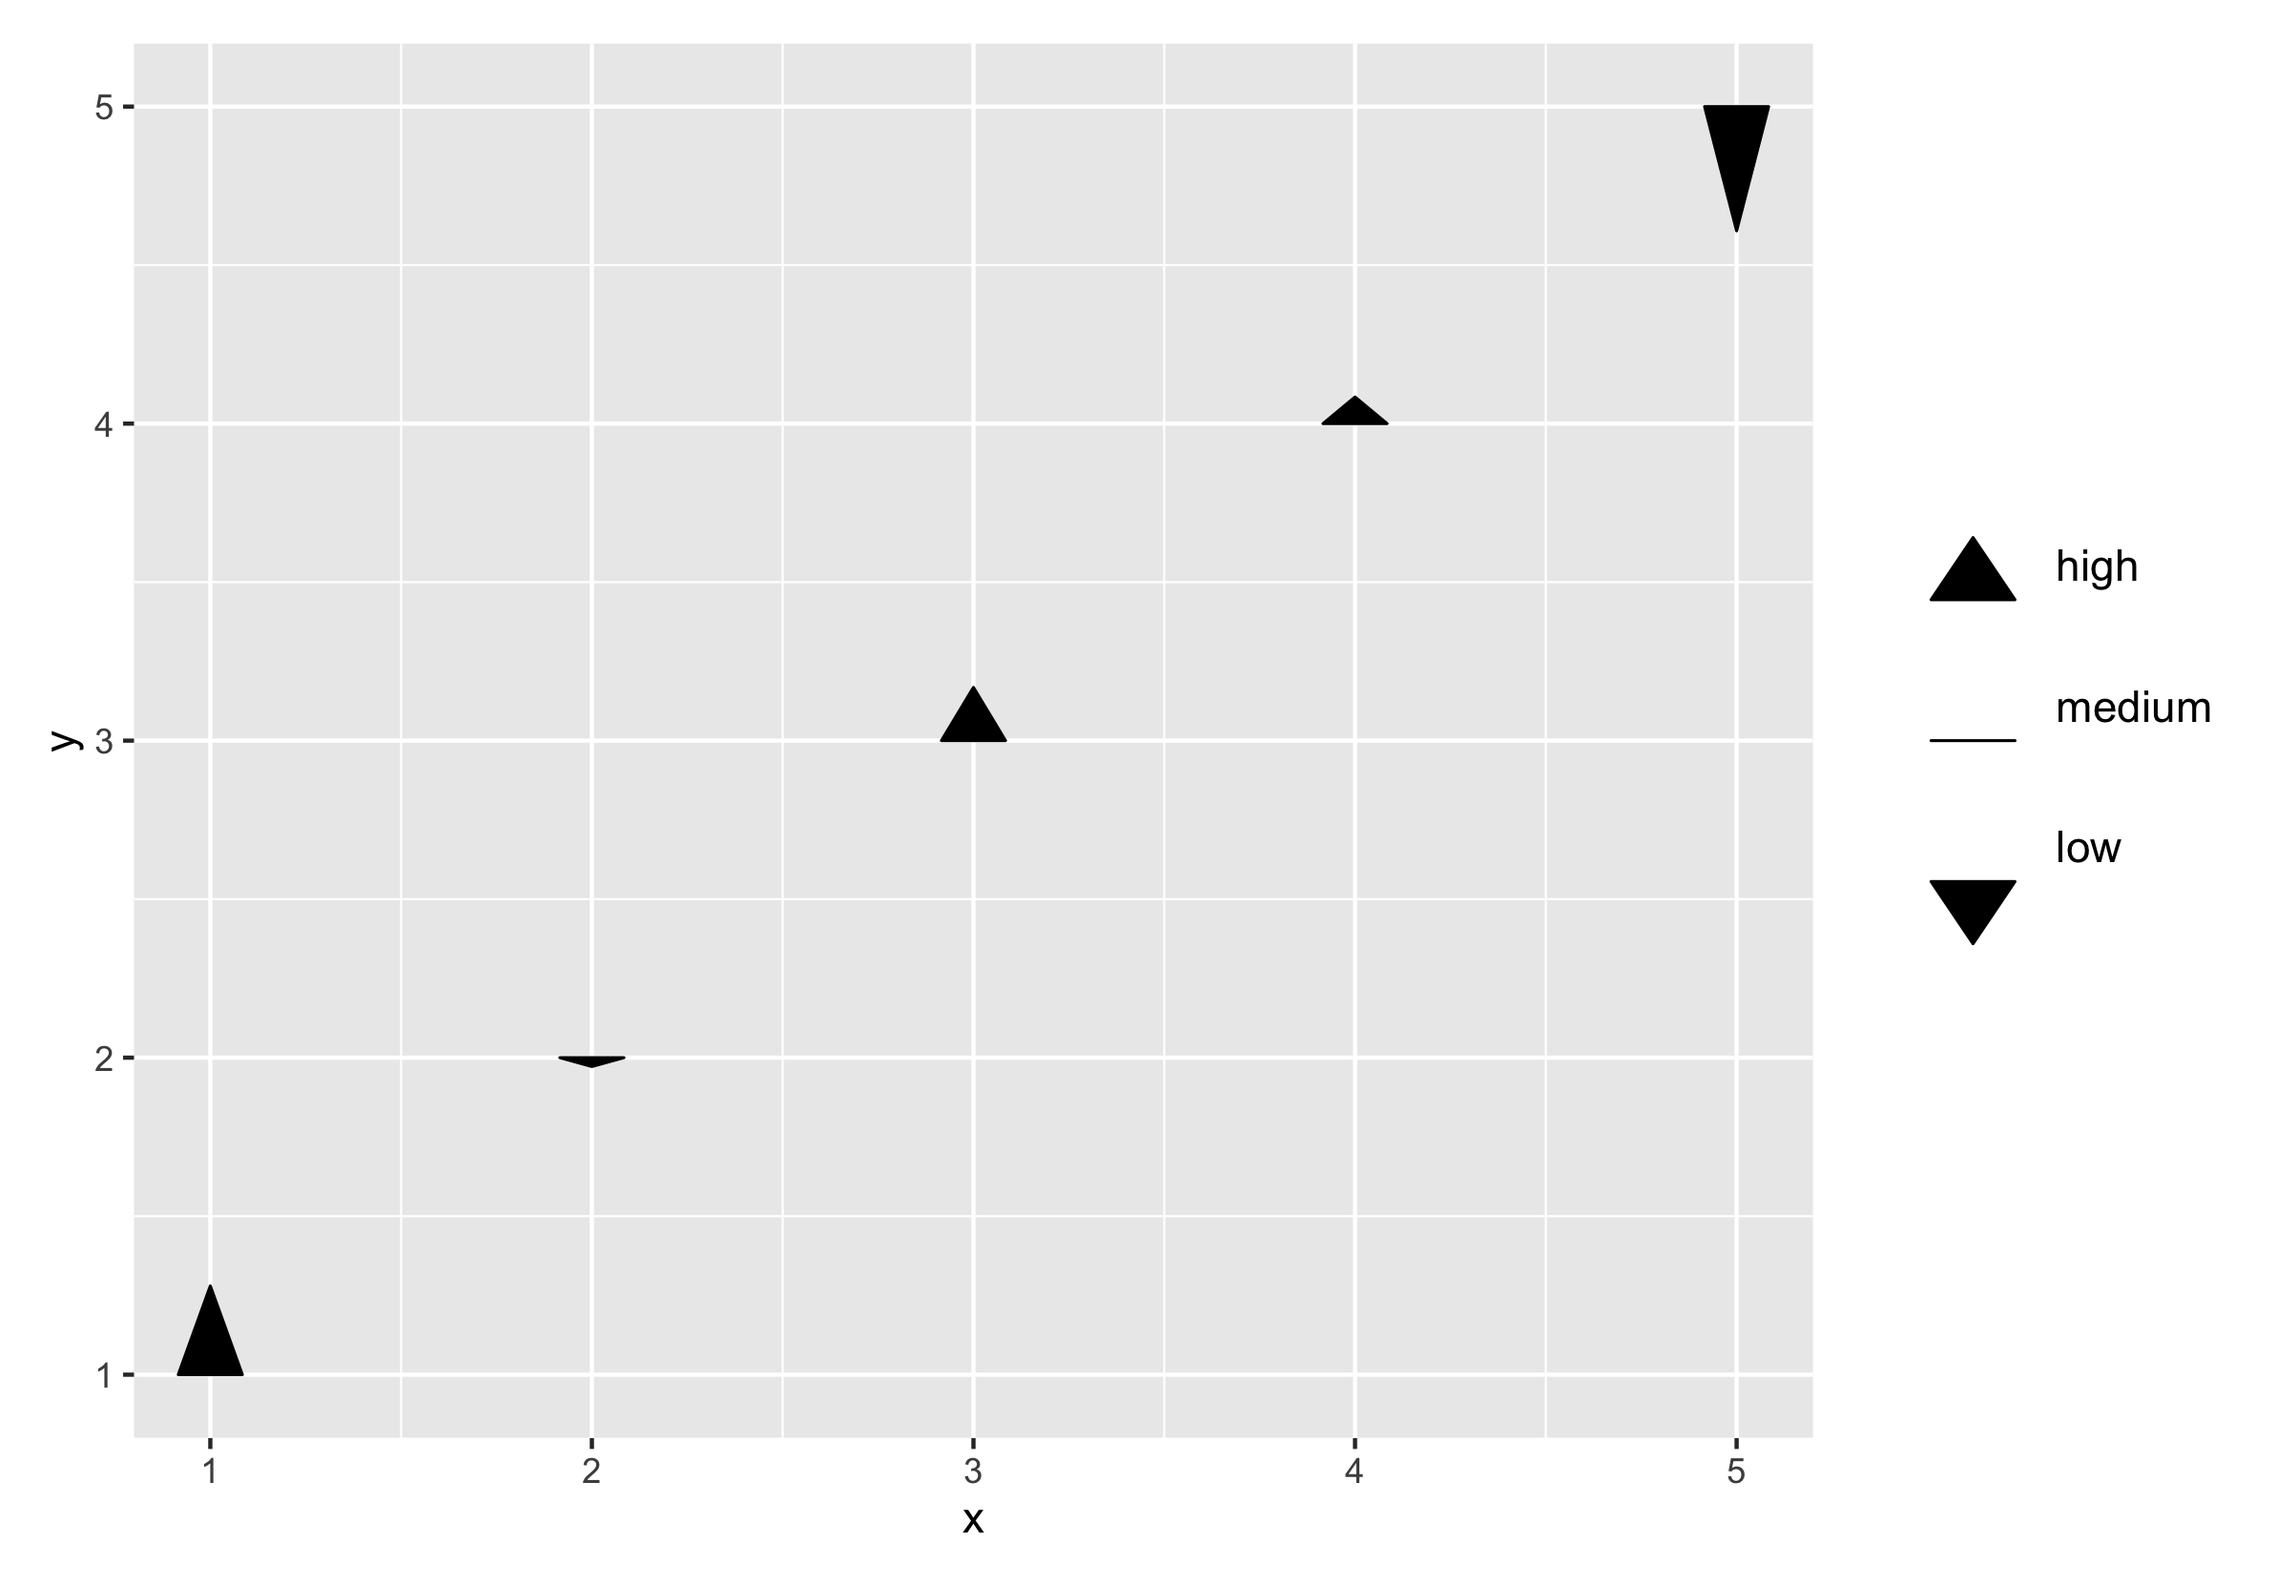
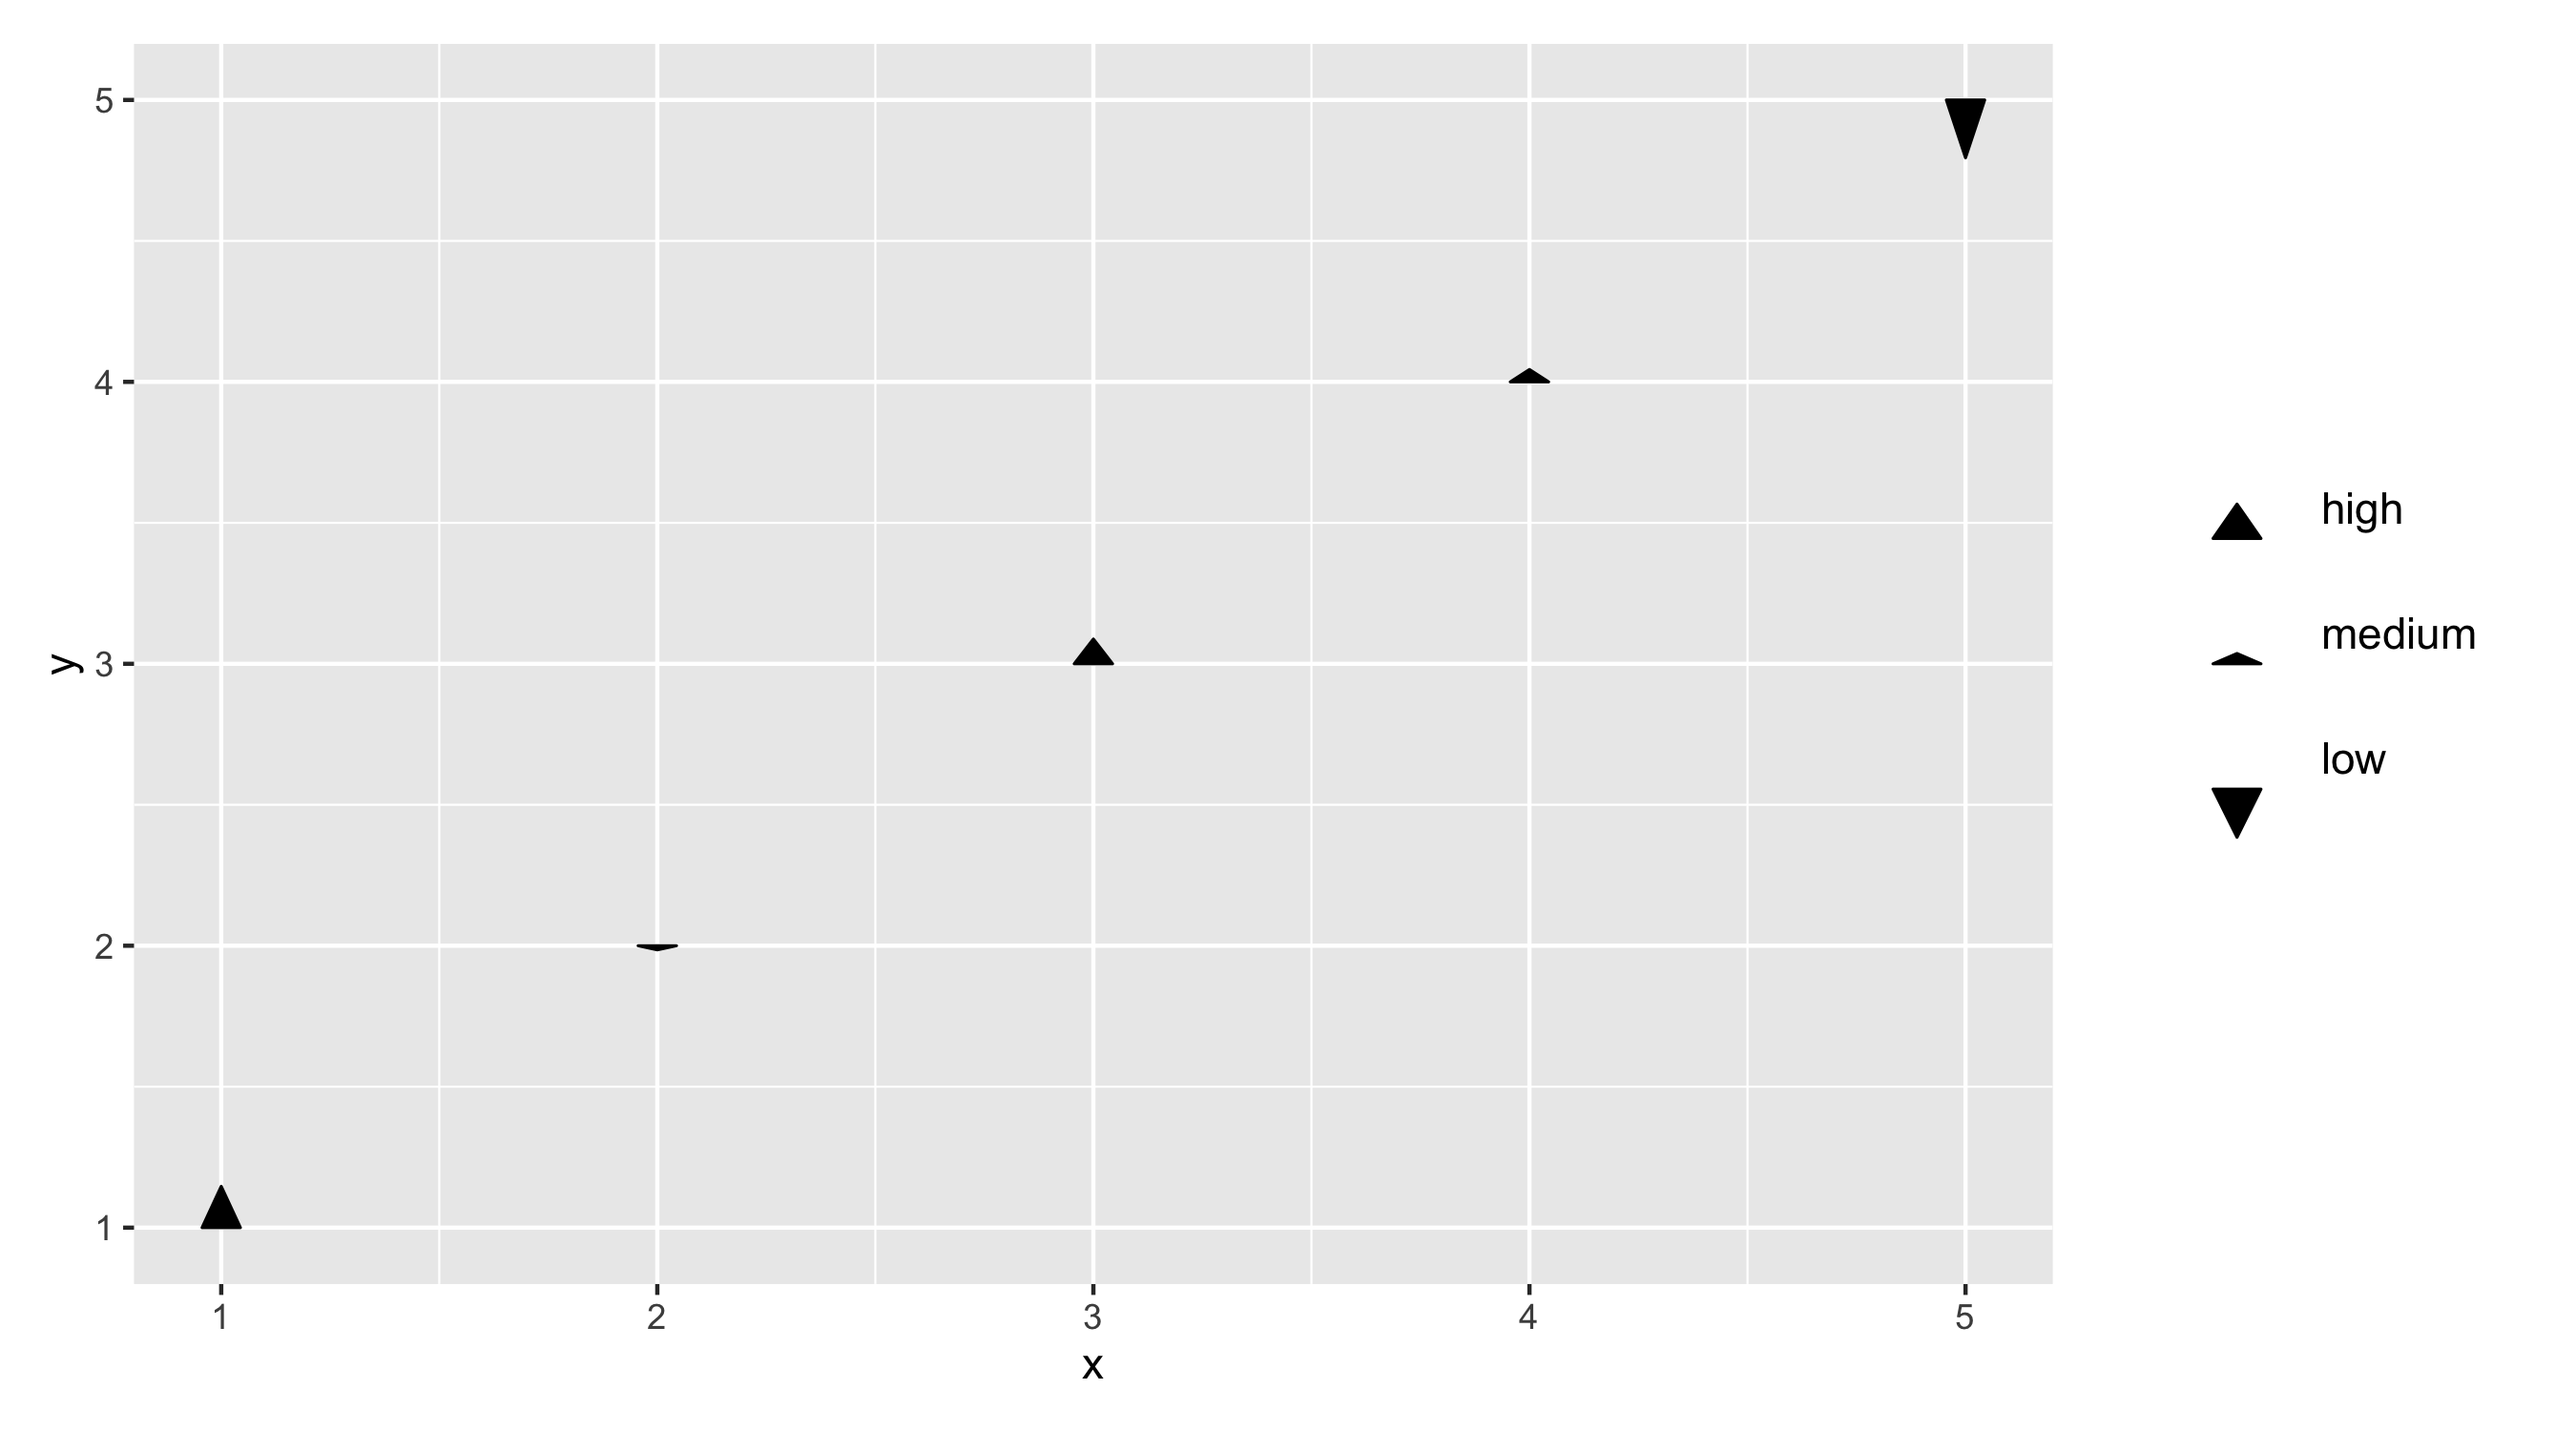
making sure the height/width arguments are set properly in examples

diff --git a/readme.md b/readme.md
@@ -17,7 +17,7 @@ Here's the code:
 
     plt <- datasets::sleep %>% 
       ggplot(aes(x = ID, y = group, z = extra)) + 
-      geom_triangles(width = 0.1, height_scale = 0.1) + 
+      geom_triangles(width = 0.01, height_scale = 0.02) + 
       xlab("Individual") + 
       ylab("Drug Given") + 
       ggtitle("Data show the effects of two soporific drugs administered to a group of 10 people") + 
@@ -26,8 +26,8 @@ Here's the code:
     legend <-
       draw_geom_triangles_size_legend(
       z_values = c(-max(sleep$extra), 0, max(sleep$extra)),
-      height_scale = 0.1,
-      width = 0.05,
+      height_scale = 0.035,
+      width = 0.04,
       labels = c('decrease in\nsleep', 'no change', 'increase in\nsleep')
       )
     
@@ -49,8 +49,10 @@ Here's the code:
 
     iris %>%
       ggplot(aes(x = Sepal.Length, y = Sepal.Width, z = Petal.Length)) +
-      geom_triangles(width = 0.1, height_scale = 0.05)
-      
+      geom_triangles(width = 0.01, height_scale = 0.005) +
+      ggtitle("Sepal length, width, and petal length of iris flowers",
+        "Petal length is shown by the height of each triangle")
+     
 ![a scatterplot of triangles with varying heights showing the Sepal Length, Sepal width, and petal length on the x and y axes and by the height of the triangles](img/basic.png)
 
 ### to add a legend
@@ -63,15 +65,20 @@ A great addition to this project would be an improved `draw_key` for
 
     library(patchwork)
 
+    # some example data
     z_values <- c(5,-.5,3,1.5,-7)/15
 
+    # our plot of interest showing the data
     plt <- ggplot(data.frame(x=1:5, y = 1:5, z = z_values), aes(x=x,y=y,z=z)) +
-        geom_triangles(width = 0.1)
+        geom_triangles(width = 0.01, height_scale = 0.1)
 
-    legend <- draw_geom_triangles_size_legend(z_values = c(-5,0,5)/15, height_scale = 1.5, width = 0.1)
+    # a legend for the plot
+    legend <- draw_geom_triangles_size_legend(z_values = z_values, height_scale = .25, width = 0.05)
 
+    # a blank plot to help with layout
     blank_plot <- ggplot() + theme_void()
 
+    # set our plot and legend side-by-side using patchwork syntax
     (plt + (blank_plot / legend / blank_plot)) +
       plot_layout(ncol = 2, nrow = 1, widths = c(1, .25))
 
